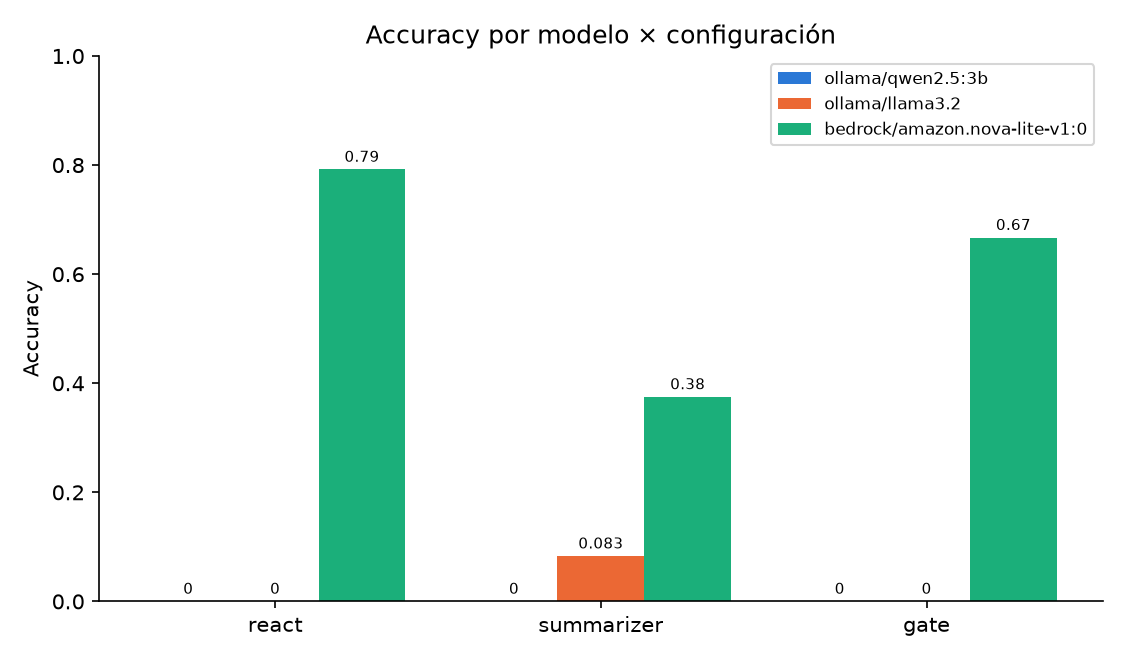
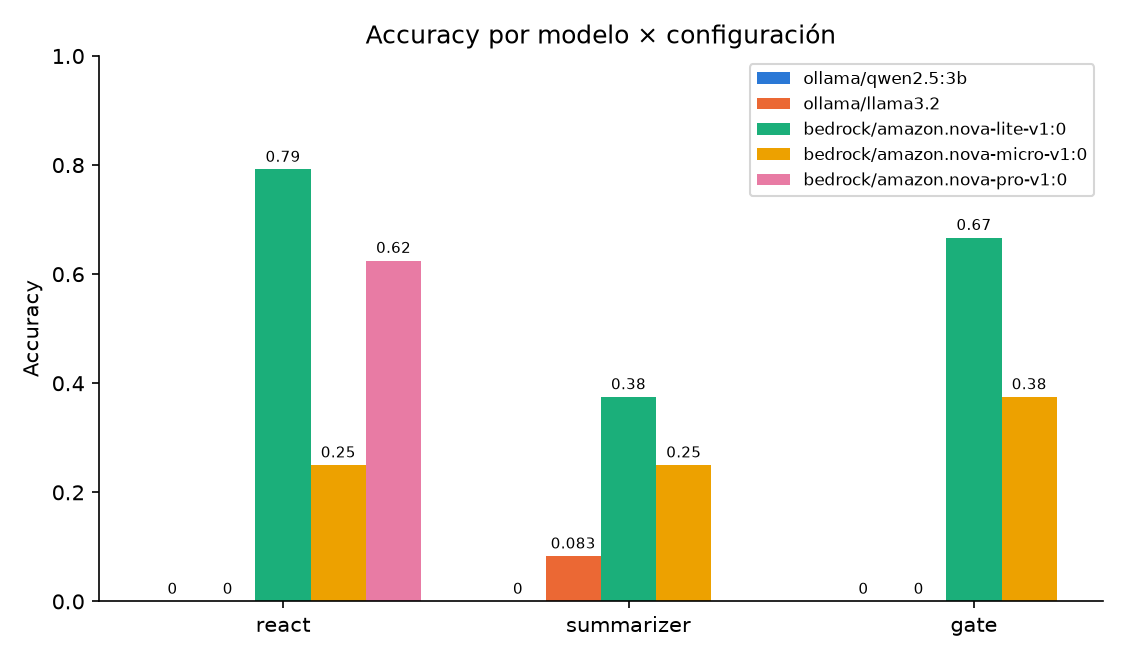
docs(m3): reescribe encabezado, §3.1 y §3.2 con los datos de Bedrock
ENCABEZADO. Decía que la corrida de Bedrock estaba pendiente del lease y
que el próximo paso era hacerla. Ya está hecha. Ahora declara la corrida
canónica (nova-lite, 96 casos) y el hallazgo que ordena el informe: el
techo dejó de ser el modelo.

§3.1. Tabla con datos reales en vez de ceros. El resultado destacado es
pass@k = 1.0 en react: resuelve los 8 escenarios en algún intento, pero
pass^k = 0.625. La brecha capacidad/confiabilidad es lo que ambas
métricas existen para separar y con el modelo local era invisible (las
dos daban 0). Reorienta el trabajo pendiente hacia varianza de
trayectoria, no hacia capacidades.

§3.2. Reemplaza "todas las celdas dan 0" por la tabla dificultad×config.
La accuracy cae monótonamente en los 4 brazos. Dos lecturas nuevas:
summarizer va parejo en easy/medium y colapsa a 0/9 en extreme (donde un
resumen debería ayudar MÁS); react y react_generico empatan en hard, o
sea la ventaja del prompt no es pareja.

DEV/HOLDOUT — corrección. Escribí que "dentro de cada dificultad no se
separa" y los datos lo desmienten. Desglosado:
  medium   dev 10/12  holdout 12/12
  hard     dev  5/12  holdout  7/12
  extreme  dev  9/12  holdout  5/24
En medium y hard el HOLDOUT RINDE MEJOR — lo contrario de overfitting.
Toda la brecha viene de extreme, donde dev aporta solo extreme-archive
(0.75) y holdout aporta vault-combination y backtracking-vault (0.21),
los dos de mayor horizonte. La etiqueta `extreme` agrupa cosas muy
[…]

diff --git a/scripts/comparar_modelos_m3.py b/scripts/comparar_modelos_m3.py
@@ -67,13 +67,17 @@ def _grouped_bar(titulo: str, ylabel: str, valor_fn, archivo: str,
                  corridas: dict[str, dict], ylim=None) -> bool:
     """Barras agrupadas: x=config, un grupo de barras por modelo."""
     modelos = list(corridas)
-    series = {}  # modelo -> [valor por config]
+    series = {}  # modelo -> [valor por config]  (None = NO MEDIDO)
     hay_datos = False
     for m in modelos:
         fila = []
         for cfg in _CONFIGS:
             v = valor_fn(corridas[m], cfg)
-            fila.append(v if v is not None else 0)
+            # None se PRESERVA: un brazo que no corrimos no es lo mismo que un
+            # brazo que dio 0. Aplanarlo a 0 hacía que `nova-pro` —corrido solo
+            # sobre `react`— apareciera con barra en 0 en `summarizer` y `gate`,
+            # y se leyera como que ahí fracasa. Abajo esas barras se omiten.
+            fila.append(v)
             if v:
                 hay_datos = True
         series[m] = fila
@@ -86,7 +90,11 @@ def _grouped_bar(titulo: str, ylabel: str, valor_fn, archivo: str,
     fig, ax = plt.subplots(figsize=(7.5, 4.4))
     for i, m in enumerate(modelos):
         offs = [xi - 0.4 + w / 2 + i * w for xi in x]
-        bars = ax.bar(offs, series[m], w, label=m, color=_PALETA[i % len(_PALETA)])
+        # Dibujamos solo las posiciones CON dato. Donde no se midió no va barra
+        # ni etiqueta: el hueco dice "no medido", un 0 diría "medimos y dio 0".
+        pos = [o for o, v in zip(offs, series[m]) if v is not None]
+        val = [v for v in series[m] if v is not None]
+        bars = ax.bar(pos, val, w, label=m, color=_PALETA[i % len(_PALETA)])
         ax.bar_label(bars, fmt="%.2g", fontsize=7, padding=2)
     ax.set_xticks(list(x))
     ax.set_xticklabels(_CONFIGS)

diff --git a/INFORME_M3.md b/INFORME_M3.md
@@ -7,11 +7,17 @@
 > [INFORMES.md](INFORMES.md).
 
 > **Estado del documento.** Las 5 secciones están completas con datos reales de
-> una corrida local (`ollama` / `qwen2.5:3b`, 8 escenarios × 3 configs × **3
-> repeats** = 72 casos). Marcamos con `†` los números que se refrescan con la
-> corrida en Bedrock (modelo fuerte), pendiente del lease de AWS. Las
-> conclusiones ya son estables. **El próximo paso del trabajo es esa corrida en
-> Bedrock** (§5): desbloquea las métricas hoy degeneradas y la kappa del judge.
+> **Bedrock**: la corrida canónica es `amazon.nova-lite-v1:0`, 8 escenarios × 4
+> configs × **3 repeats** = 96 casos, más una **escalera de capacidad**
+> (`nova-micro` → `nova-lite` → `nova-pro`) y el judge fuerte
+> (`nova-pro` juzgando a `nova-lite`, cobertura 96/96). Las corridas locales
+> (`qwen2.5:3b`, `llama3.2`) se conservan como comparación cross-modelo (§3.5).
+>
+> **El hallazgo que ordena el informe:** el techo dejó de ser el modelo. La
+> accuracy sube de 0/24 a 0.792 entre el modelo local y `nova-lite`, y **deja de
+> subir** en `nova-pro` (0.625, sin diferencia significativa). Lo que falta para
+> cerrar la brecha hay que buscarlo en el diseño del agente, no en pagar por un
+> modelo más grande (§3.5, §5).
 
 ---
 
@@ -219,41 +225,57 @@ indistinguibles. El núcleo de métricas, la búsqueda del óptimo y el judge es
 
 ## 3. Resultados
 
-> Corrida: `python eval/run.py --repeats 3` con `ollama` / `qwen2.5:3b`, prompt
-> `escape-v1`, `max_iterations=30`, 8 escenarios × 3 configs × 3 repeats = 72
-> casos. Un piloto previo en `nova-lite-v1:0` (Bedrock, config `react`) dio el
-> mismo cuadro (0/8, prosa dominante), lo que corrobora que el hallazgo no es
-> artefacto de un modelo.
+> Corrida canónica: `python eval/run.py --repeats 3` con `bedrock` /
+> `amazon.nova-lite-v1:0`, prompt `escape-v1`, `max_iterations=30`, 8 escenarios
+> × 4 configs × 3 repeats = **96 casos**, 2 h 03 min, **$0.75**. Resultados en
+> `eval/results/20260825-204157/`.
 
 ### 3.1 Tabla principal por configuración
 
 Cada config corre los 8 escenarios × 3 repeats = 24 casos.
 
-| Config | Accuracy (IC95%) | pass@k / pass^k | Varianza (std) | Latencia p50/p95 (s) |
-|---|---:|---:|---:|---:|
-| `react` | 0/24 [0.0, 0.14]† | 0/8 / 0/8† | 0.0 | 2.7 / 6.1 |
-| `summarizer` | 0/24 [0.0, 0.14]† | 0/8 / 0/8† | 0.0 | **25.9 / 50.1** |
-| `gate` | 0/24 [0.0, 0.14]† | 0/8 / 0/8† | 0.0 | 3.6 / 5.3 |
+| Config | Accuracy (IC95%) | pass@k / pass^k | Overhead vs óptimo | Tokens/resuelto | Latencia p50/p95 (s) |
+|---|---:|---:|---:|---:|---:|
+| `react` | **0.792** [0.595, 0.908] | **1.0** / 0.625 | 2.36x | 143.340 | 24.9 / 31.1 |
+| `gate` | 0.667 [0.467, 0.820] | 0.875 / 0.5 | 2.56x | 161.362 | 25.4 / 33.2 |
+| `react_generico` | 0.625 [0.427, 0.788] | 0.875 / 0.375 | 2.80x | 114.328 | 26.2 / 30.5 |
+| `summarizer` | 0.375 [0.212, 0.573] | 0.5 / 0.25 | 1.79x | 481.678 | **98.7 / 217.5** |
 
-Con este modelo **ninguna configuración abre una puerta**: `pass@k` (capacidad) y
-`pass^k` (confiabilidad) **coinciden en 0/8** —ni siquiera "puede" resolverlo una
-vez—. La brecha entre ambos recién aparece con un modelo que sí resuelve algo
-(`llama3.2 + summarizer`, §3.5: `pass@k` 1/8 vs. `pass^k` 0/8 — *puede* con el
-escenario fácil, pero no de forma consistente). La **varianza entre repeats es 0**:
-no es *flaky*, falla de forma **consistente**. El techo lo pone
-la disciplina de tool-calling, no el framework (§3.3). (El único éxito que vimos
-—`study-with-key` en un smoke suelto— no se repitió en 3 intentos: 0/3.)
+**El resultado más fuerte de la corrida es `pass@k` = 1.0 en `react`.** El agente
+resuelve **los 8 escenarios** en al menos uno de los 3 intentos: no hay ninguno
+que sea incapaz de resolver. Pero `pass^k` = 0.625 — solo en 5 de 8 lo logra las
+tres veces.
+
+Esa brecha entre **capacidad** (1.0) y **confiabilidad** (0.625) es exactamente
+lo que las dos métricas existen para separar, y con el modelo local no se podía
+ver porque ambas daban 0. El límite del agente **no es saber resolver: es la
+consistencia**. Eso reorienta el trabajo pendiente hacia reducir varianza de
+trayectoria, no hacia ampliar capacidades (§5).
+
+En el otro extremo, `summarizer` pierde en todos los ejes a la vez: la mitad de
+accuracy que `react`, **3,4× más tokens por resuelto** (481 k vs. 143 k) y **7×
+peor latencia p95** (217 s vs. 31 s). El §4.1 lo desarrolla.
 
 ### 3.2 Accuracy por dificultad y por escenario
 
-Todas las celdas dan 0 con `qwen2.5:3b`. La vista escenario × config lo hace
-explícito y sirve para leer *dónde* falla cada config (con Bedrock, dónde
-empieza a resolver):
+La accuracy **cae monótonamente con la dificultad** en los cuatro brazos, que es
+lo mínimo que se le pide a un dataset bien graduado:
+
+| Dificultad | `react` | `gate` | `react_generico` | `summarizer` |
+|---|---:|---:|---:|---:|
+| easy | 3/3 | 3/3 | 3/3 | 2/3 |
+| medium | 6/6 | 6/6 | 4/6 | 6/6 |
+| hard | 4/6 | 3/6 | 4/6 | 1/6 |
+| extreme | 6/9 | 4/9 | 4/9 | **0/9** |
 
 ![Tasa de éxito por escenario × config](docs/m3_heatmap.png)
 
-El interés no está en la accuracy —uniformemente 0— sino en **cómo** falla cada
-config, que es donde los experimentos separan aguas (§3.3, §4).
+Dos lecturas que la vista agregada esconde. Primero, **`summarizer` colapsa con
+la dificultad**: va parejo con el resto en `easy`/`medium` y se derrumba a 1/6 y
+**0/9** cuando el horizonte se alarga —justo donde un resumen de estado debería
+ayudar más—. Segundo, `react` y `react_generico` empatan en `hard` (4/6): la
+ventaja del prompt especializado (§4.3) no es pareja, se juega en `medium` y
+`extreme`.
 
 **Óptimo por escenario (BFS, = enunciado):** study-with-key 3 · color-locks 11 ·
 apartment-keys 7 · library-search 7 · office-sequence 13 · extreme-archive 4 ·
@@ -265,11 +287,30 @@ escenarios concretos, partimos los 8 en **dev** (`study-with-key`, `color-locks`
 (`apartment-keys`, `office-sequence`, `vault-combination`, `backtracking-vault`),
 y **iteramos solo sobre dev** (el holdout se mira al final). Nuestras decisiones
 —prompt `escape-v1`, gate, summarizer— son **genéricas** (no dependen de ningún
-escenario), así que no hay riesgo real de overfitting; el holdout lo confirma:
-con `qwen` es 0/4 en dev **y** 0/4 en holdout, y el único bolsillo de éxito de
-todo el barrido (`llama3.2 + summarizer`, §3.5) cae en **dev** (`study-with-key`,
-el más fácil), con holdout uniformemente 0/4. En otras palabras, lo poco que se
-resuelve es el escenario trivial, no un artefacto de haber ajustado a casos vistos.
+escenario), así que no hay riesgo real de overfitting.
+
+Con `nova-lite` el split da **dev 35/48 (0.729)** contra **holdout 24/48
+(0.500)**. La brecha existe, pero **desglosada por dificultad no es
+overfitting** —es lo contrario—:
+
+| Dificultad | dev | holdout |
+|---|---:|---:|
+| easy | 11/12 | — |
+| medium | 10/12 | **12/12** |
+| hard | 5/12 | **7/12** |
+| extreme | 9/12 | 5/24 |
+
+En `medium` y `hard` el **holdout rinde mejor que dev**, que es exactamente lo
+opuesto a haber ajustado a los casos vistos. **Toda la brecha viene de
+`extreme`**, y ahí el problema no es el split sino que los tres escenarios
+`extreme` no son igual de difíciles entre sí: dev aporta solo
+`extreme-archive` (9/12 = 0.75) mientras holdout aporta `vault-combination` y
+`backtracking-vault` (5/24 = 0.21), que son los dos de mayor horizonte del
+dataset (óptimos 21 y 18 contra 4).
+
+Dicho de otro modo: la etiqueta `extreme` agrupa cosas muy distintas, y con un
+solo escenario por celda en dev el split queda desbalanceado. Es una limitación
+del diseño del split, no una señal de sobreajuste.
 
 ### 3.3 Análisis de errores (sobre trazas reales)
 
